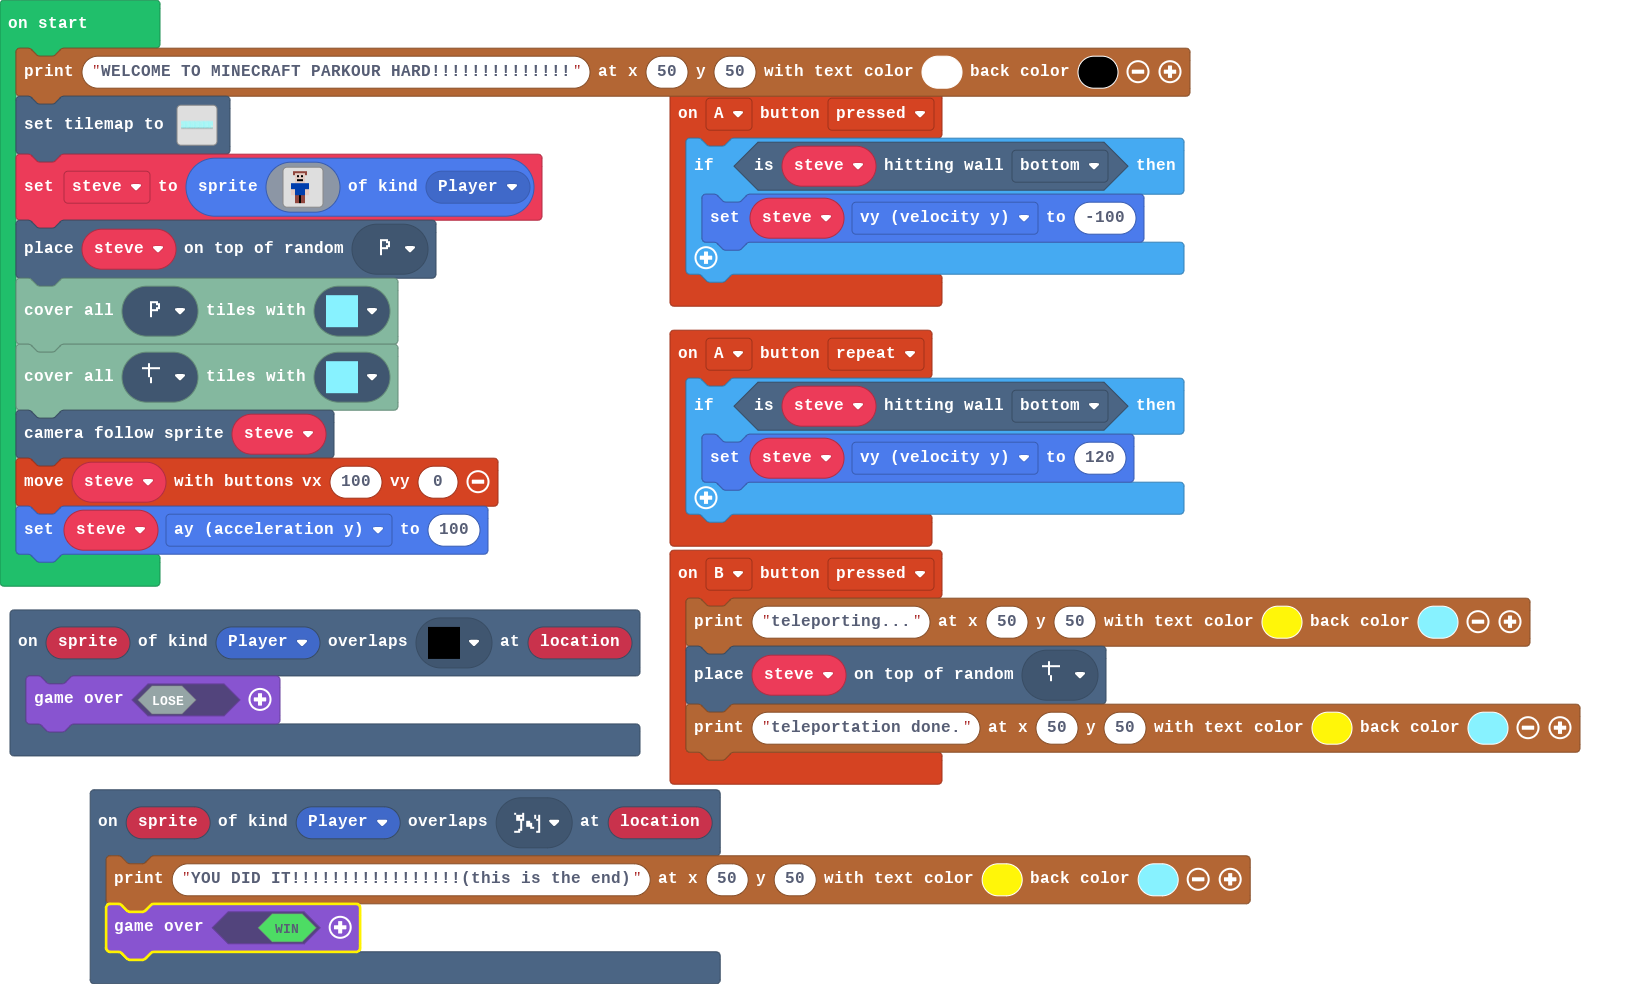
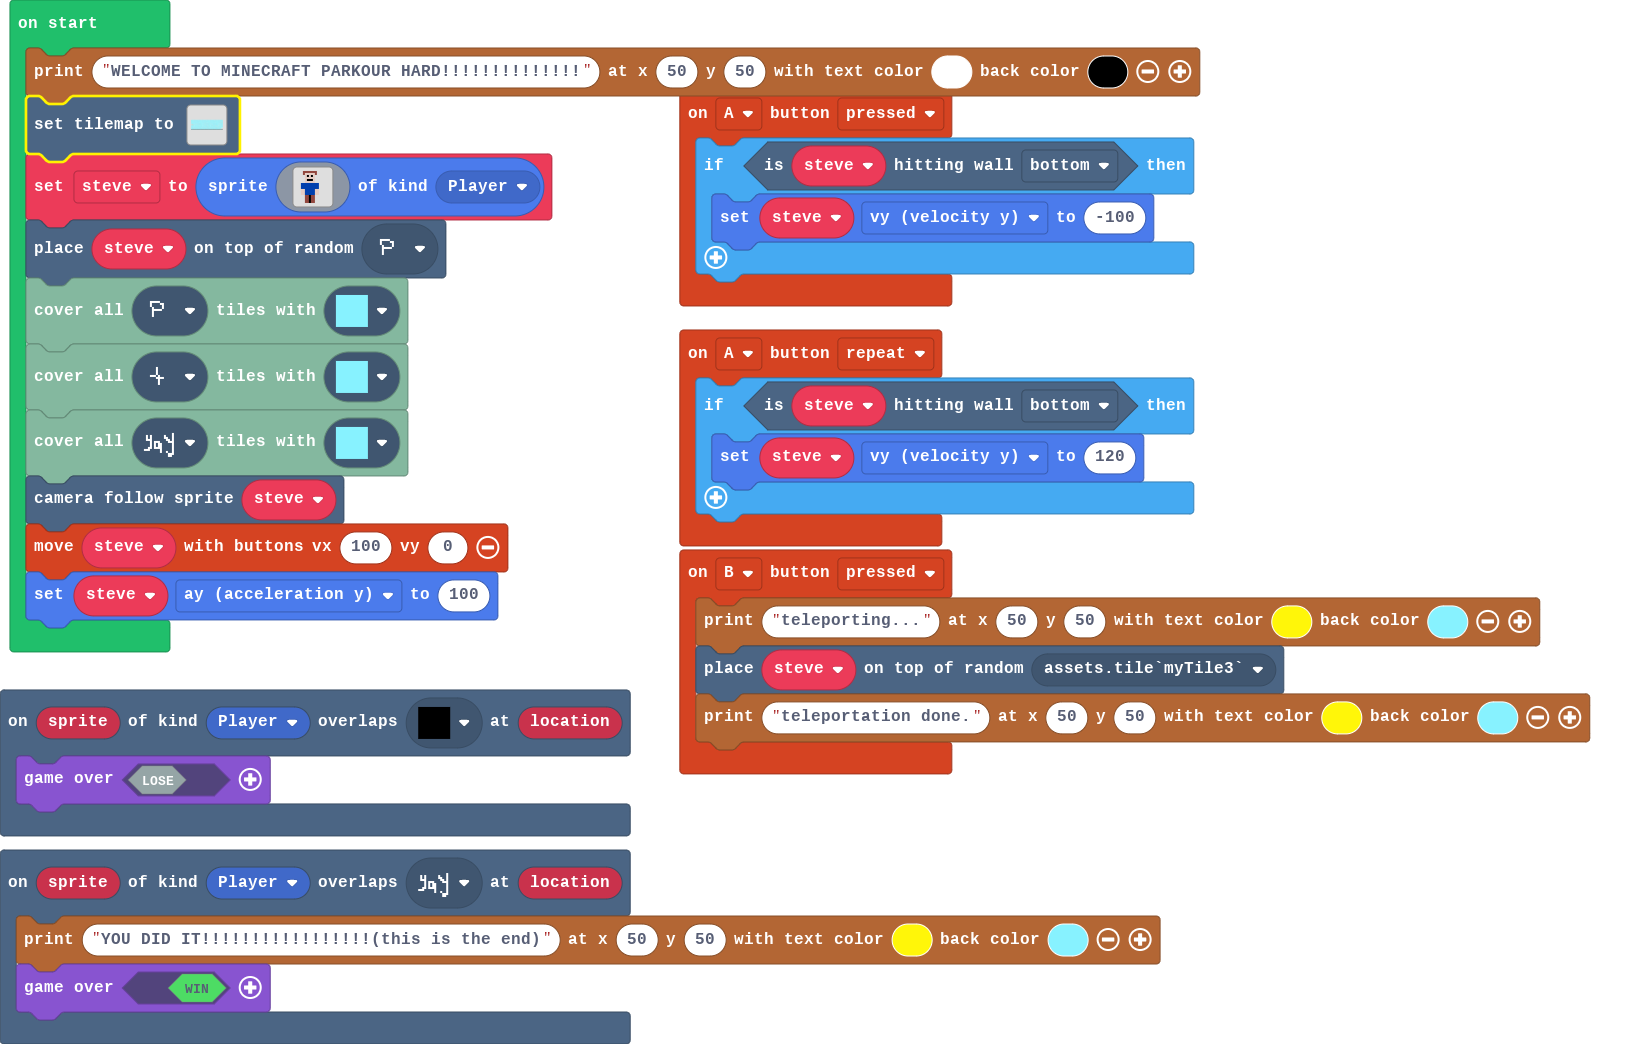
Update main.blocks, main.ts, tilemap.g.jres, tilemap.g.ts

diff --git a/tilemap.g.ts b/tilemap.g.ts
@@ -2,6 +2,20 @@
 namespace myTiles {
     //% fixedInstance jres blockIdentity=images._tile
     export const transparency16 = image.ofBuffer(hex``);
+    //% fixedInstance jres blockIdentity=images._tile
+    export const tile1 = image.ofBuffer(hex``);
+    //% fixedInstance jres blockIdentity=images._tile
+    export const tile2 = image.ofBuffer(hex``);
+    //% fixedInstance jres blockIdentity=images._tile
+    export const tile3 = image.ofBuffer(hex``);
+    //% fixedInstance jres blockIdentity=images._tile
+    export const tile4 = image.ofBuffer(hex``);
+    //% fixedInstance jres blockIdentity=images._tile
+    export const tile5 = image.ofBuffer(hex``);
+    //% fixedInstance jres blockIdentity=images._tile
+    export const tile6 = image.ofBuffer(hex``);
+    //% fixedInstance jres blockIdentity=images._tile
+    export const tile7 = image.ofBuffer(hex``);
 
     helpers._registerFactory("tilemap", function(name: string) {
         switch(helpers.stringTrim(name)) {
@@ -24,6 +38,58 @@ namespace myTiles {
 . . . . . . . . . . . . . . . . 
 . . . . . . . . . . . . . . . . 
 `, [], -Infinity);
+            case "level2":
[1 lines of base64/hex data omitted]
+....................................................................................................
+....................................................................................................
+....................................................................................................
+....................................................................................................
+....................................................................................................
+....................................................................................................
+..............................................................................................222...
+...........................................2.....2..................................................
+.......................................................2....................................2.......
+..........................................................2.........................................
+..........................................................................................2.........
+..............................................2....2..........2.....................................
+..................2........2.............2.............2............................................
+...............2....2.........................2..........................................2..........
+22222222...2.....................................................2..................................
+22222222................2.....2......................2................................2.............
+.......................................2...2...2...................2................................
+.............................................................................2..........2...........
+.......................................................2............2.........2.....................
+.....................................................2..........................22....2.............
+................................2......................2............................................
+......................................2.............................................2...............
+............................................2........2..............................................
+....................................................................................................
+..................................................2.................................................
+.......................................................2............................................
+...............................................................................................22222
+...............................................................................................22222
+....................................................................................................
+....................................................................................................
+`, [myTiles.transparency16,myTiles.tile2,myTiles.tile3,myTiles.tile4,myTiles.tile5,myTiles.tile6,myTiles.tile7], TileScale.Sixteen);
+            case "level3":
+            case "level3":return tiles.createTilemap(hex`1000100000000000000000000000000000000000000000000000000000000000000000000000000000000000000000000000000000000000000000000000000000000000000000000000000000000000000000000000000000000000000000000000000000000000000000000000000000000000000000000000000000000000000000000000000000000000000000000000000000000000000000000000000000000000000000000000000000000000000000000000000000000000000000000000000000000000000000000000000000000000000000000000000000000000000000000000000000000000000000000000000000000000000000000000000000000000`, img`
+. . . . . . . . . . . . . . . . 
+. . . . . . . . . . . . . . . . 
+. . . . . . . . . . . . . . . . 
+. . . . . . . . . . . . . . . . 
+. . . . . . . . . . . . . . . . 
+. . . . . . . . . . . . . . . . 
+. . . . . . . . . . . . . . . . 
+. . . . . . . . . . . . . . . . 
+. . . . . . . . . . . . . . . . 
+. . . . . . . . . . . . . . . . 
+. . . . . . . . . . . . . . . . 
+. . . . . . . . . . . . . . . . 
+. . . . . . . . . . . . . . . . 
+. . . . . . . . . . . . . . . . 
+. . . . . . . . . . . . . . . . 
+. . . . . . . . . . . . . . . . 
+`, [myTiles.transparency16], TileScale.Sixteen);
         }
         return null;
     })
@@ -31,6 +97,19 @@ namespace myTiles {
     helpers._registerFactory("tile", function(name: string) {
         switch(helpers.stringTrim(name)) {
             case "transparency16":return transparency16;
+            case "tile1":return tile1;
+            case "myTile":
+            case "tile2":return tile2;
+            case "myTile0":
+            case "tile3":return tile3;
+            case "myTile1":
+            case "tile4":return tile4;
+            case "myTile2":
+            case "tile5":return tile5;
+            case "myTile3":
+            case "tile6":return tile6;
+            case "myTile4":
+            case "tile7":return tile7;
         }
         return null;
     })

diff --git a/main.ts b/main.ts
@@ -1,3 +1,6 @@
+scene.onOverlapTile(SpriteKind.Player, assets.tile`myTile1`, function (sprite, location) {
+    game.over(false)
+})
 controller.B.onEvent(ControllerButtonEvent.Pressed, function () {
     story.printText("teleporting...", 50, 50, 5, 9)
     tiles.placeOnRandomTile(steve, assets.tile`myTile3`)
@@ -12,9 +15,6 @@ scene.onOverlapTile(SpriteKind.Player, assets.tile`myTile4`, function (sprite, l
     story.printText("YOU DID IT!!!!!!!!!!!!!!!!!(this is the end)", 50, 50, 5, 9)
     game.over(true)
 })
-scene.onOverlapTile(SpriteKind.Player, assets.tile`myTile2`, function (sprite, location) {
-    game.over(false)
-})
 controller.A.onEvent(ControllerButtonEvent.Repeated, function () {
     if (steve.isHittingTile(CollisionDirection.Bottom)) {
         steve.vy = 120
@@ -22,7 +22,7 @@ controller.A.onEvent(ControllerButtonEvent.Repeated, function () {
 })
 let steve: Sprite = null
 story.printText("WELCOME TO MINECRAFT PARKOUR HARD!!!!!!!!!!!!!!", 50, 50, 1, 15)
-tiles.setTilemap(tilemap`level1`)
+tiles.setTilemap(tilemap`level2`)
 steve = sprites.create(img`
     . . . e e e e e e e . . . . . . 
     . . . e d d d d d e . . . . . . 
@@ -41,9 +41,10 @@ steve = sprites.create(img`
     . . . . e e f e e . . . . . . . 
     . . . . e e f e e . . . . . . . 
     `, SpriteKind.Player)
-tiles.placeOnRandomTile(steve, assets.tile`myTile1`)
-tiles.coverAllTiles(assets.tile`myTile1`, assets.tile`myTile0`)
+tiles.placeOnRandomTile(steve, assets.tile`myTile2`)
+tiles.coverAllTiles(assets.tile`myTile2`, assets.tile`myTile0`)
 tiles.coverAllTiles(assets.tile`myTile3`, assets.tile`myTile0`)
+tiles.coverAllTiles(assets.tile`myTile4`, assets.tile`myTile0`)
 scene.cameraFollowSprite(steve)
 controller.moveSprite(steve, 100, 0)
 steve.ay = 100
